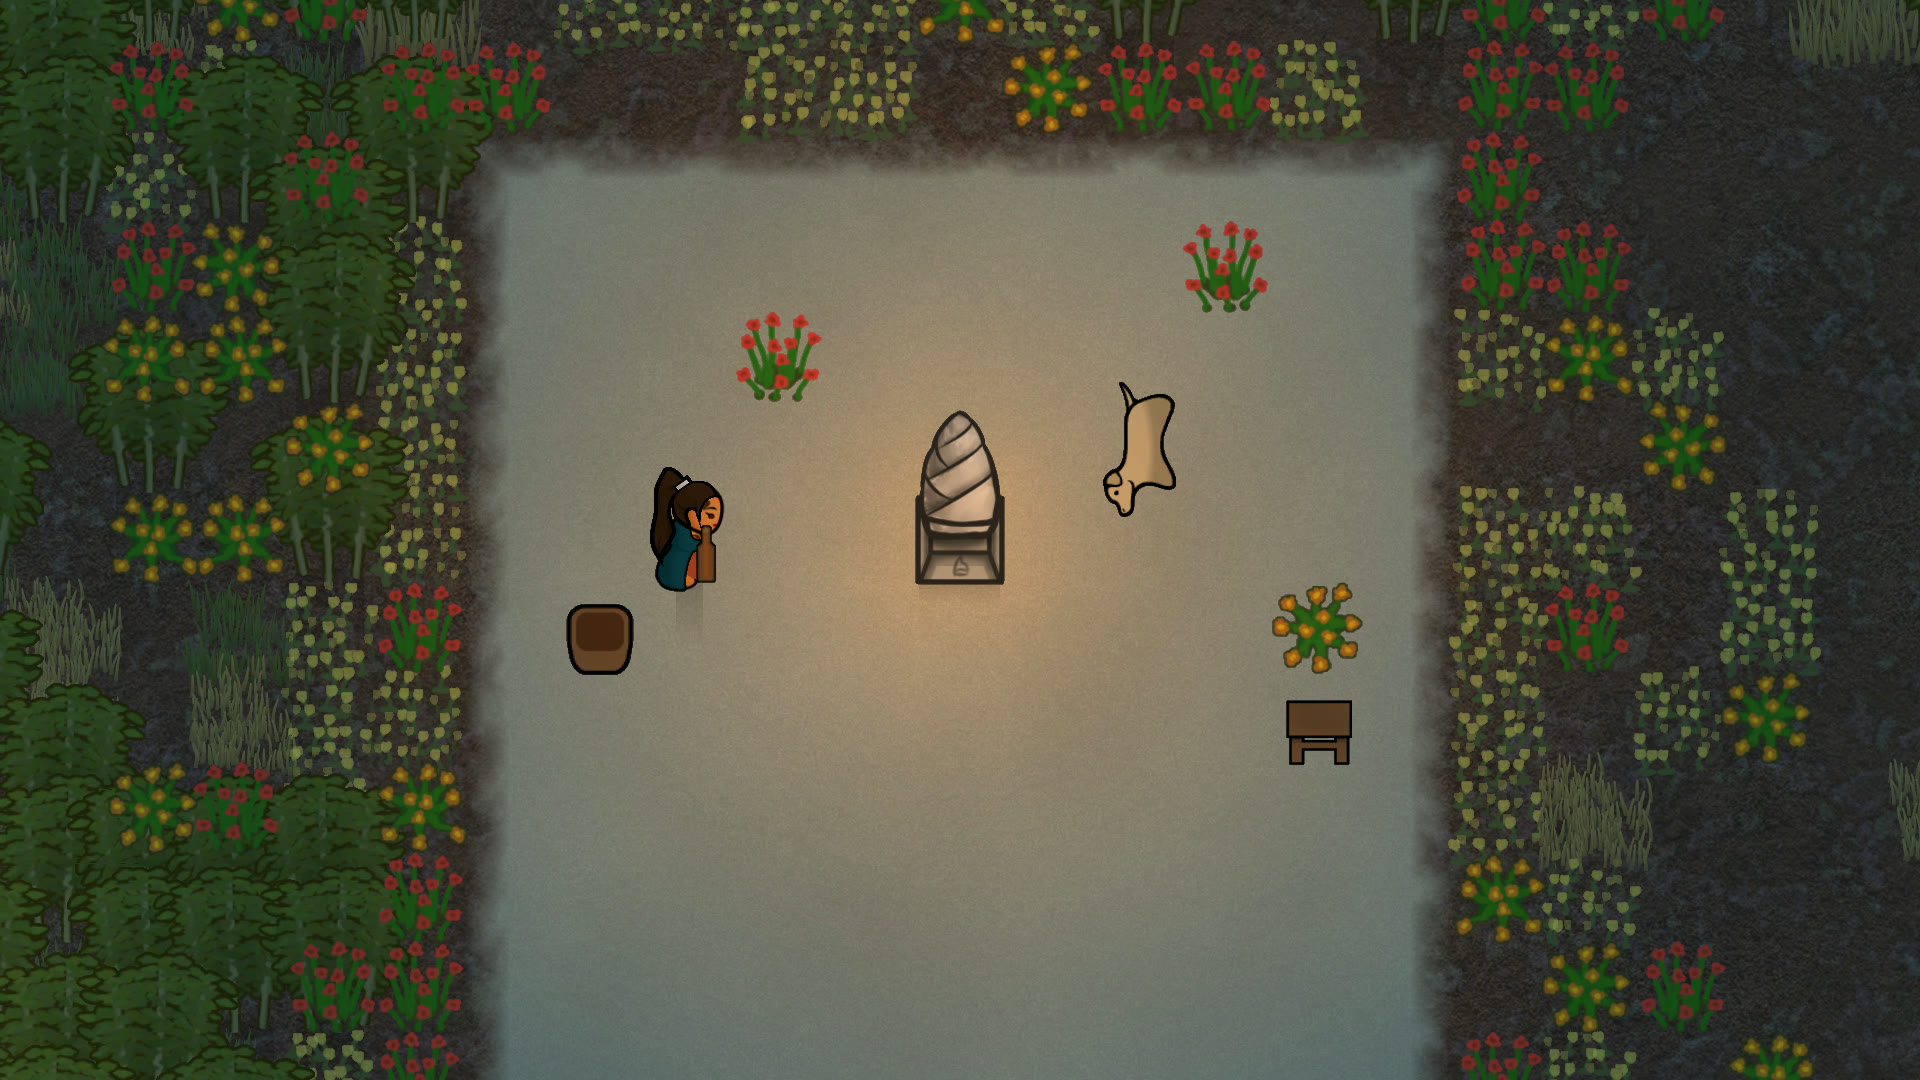
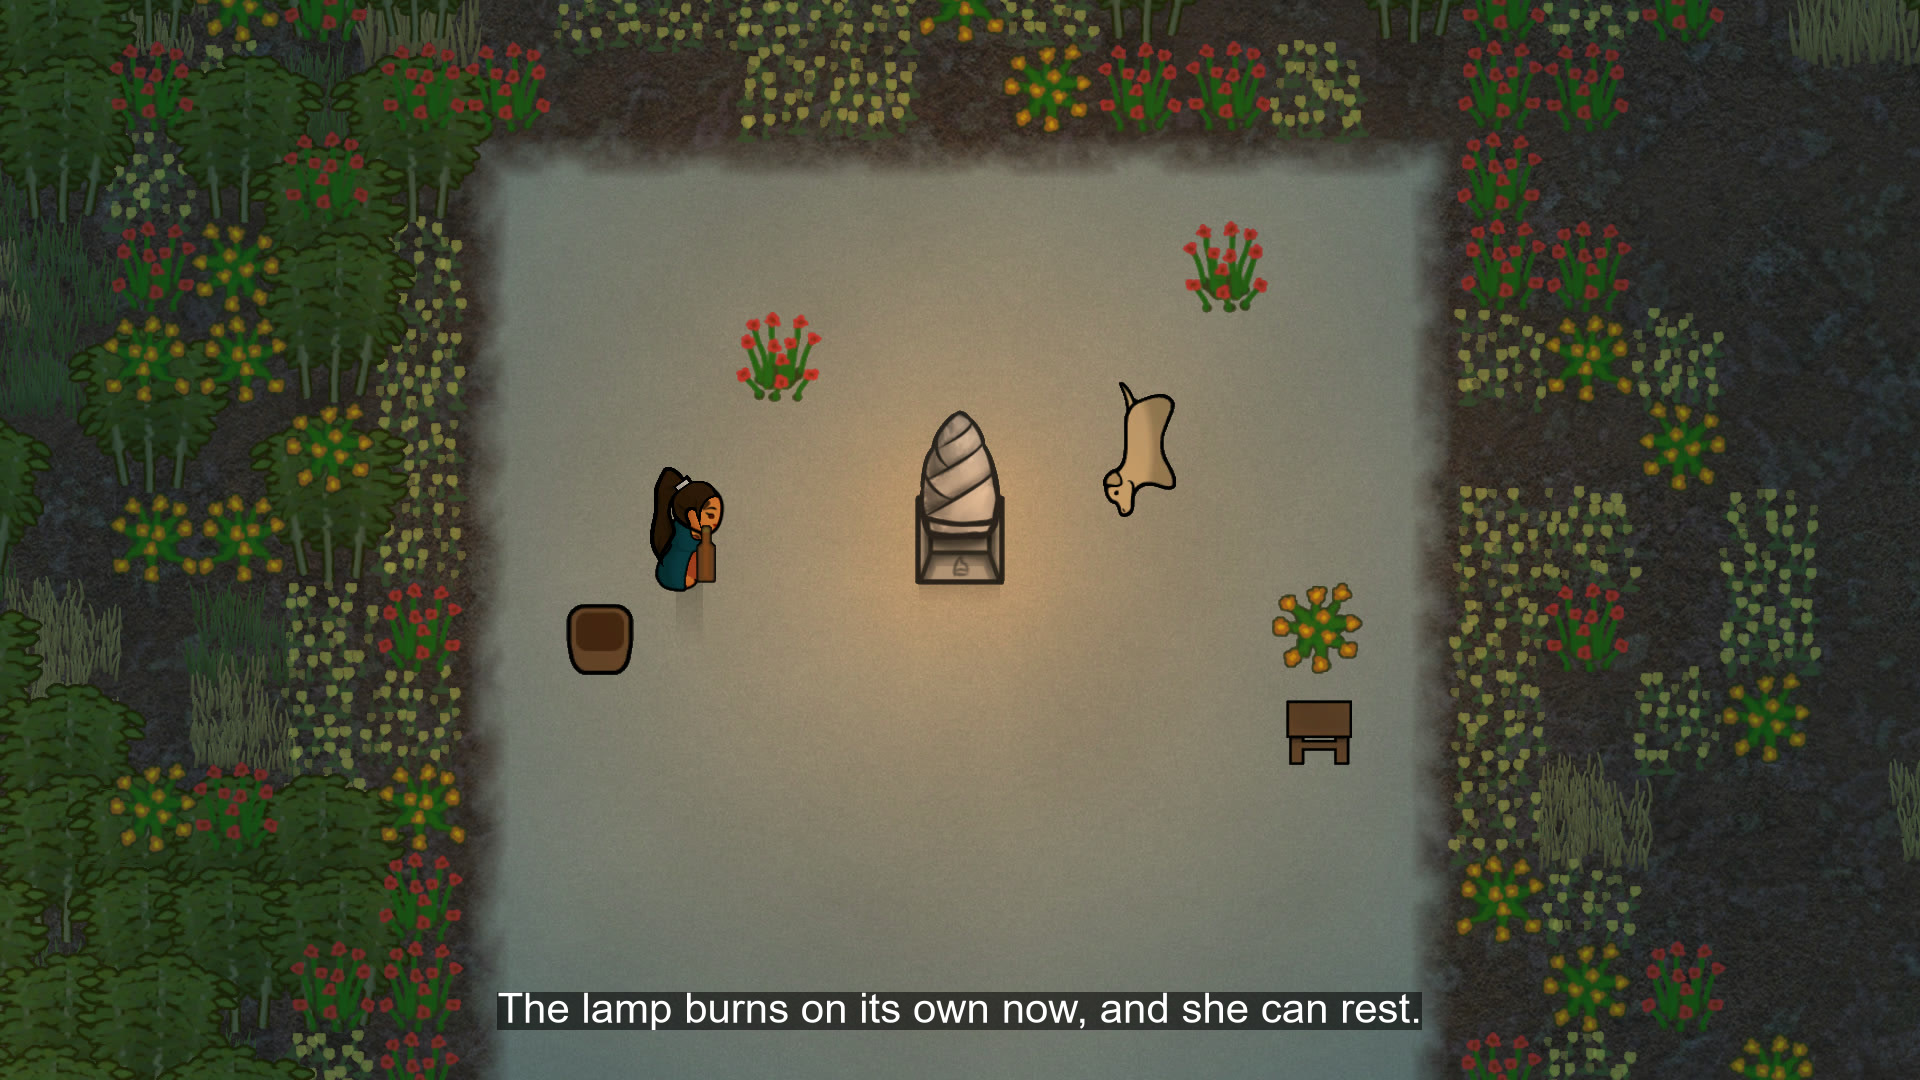
Gallery: subtitles burned on 1 to 3, clean originals in Art/Gallery-clean, lines in PUBLICATION.md

Changed region(s): [[0.25, 0.9167, 0.75, 0.9778]]

diff --git a/PUBLICATION.md b/PUBLICATION.md
@@ -14,9 +14,9 @@ is an interface capture and carries none.
 | Index | File | What it shows | Subtitle |
 |---|---|---|---|
 | 0 | `0-preview.png` | Copy of `Mod/About/Preview.png` | none |
-| 1 | `1-candidate-noon.jpg` | The lamp dark on the cream stone, its tank empty, Nelim and Shogun beside it | The lamp stands dark on the cream stone, its tank empty. |
-| 2 | `2-candidate-dusk.jpg` | Nelim carries an armful of hay, the tank is filled and the lantern lights | Nelim brings an armful of hay, and the lantern lights. |
-| 3 | `3-candidate-night.jpg` | The pool of light holds Nelim and Shogun in the dark | One tank burns for thirty days. Tonight its light holds Nelim and Shogun. |
+| 1 | `1-candidate-noon.jpg` | Noon, the lamp dark; Nelim carries hay toward it, Shogun faces the camera | The lamp waits, dark, for the hay. |
+| 2 | `2-candidate-dusk.jpg` | Dusk, the tank is filled and the lantern lights: amber halo, hay beside it | The tank is filled and the lantern lights: the hay was the cause. |
+| 3 | `3-candidate-night.jpg` | Night, the lamp burns on its own; Nelim with a bottle, Shogun lying | The lamp burns on its own now, and she can rest. |
 | 4 | `4-candidate-inspect-pane.jpg` | Inspect pane of the lamp: Fuel 12 / 12 (30 days), Beauty 800, its art title and its switch | none |
 
 The `candidate` markers are removed when Virginie accepts an image.
